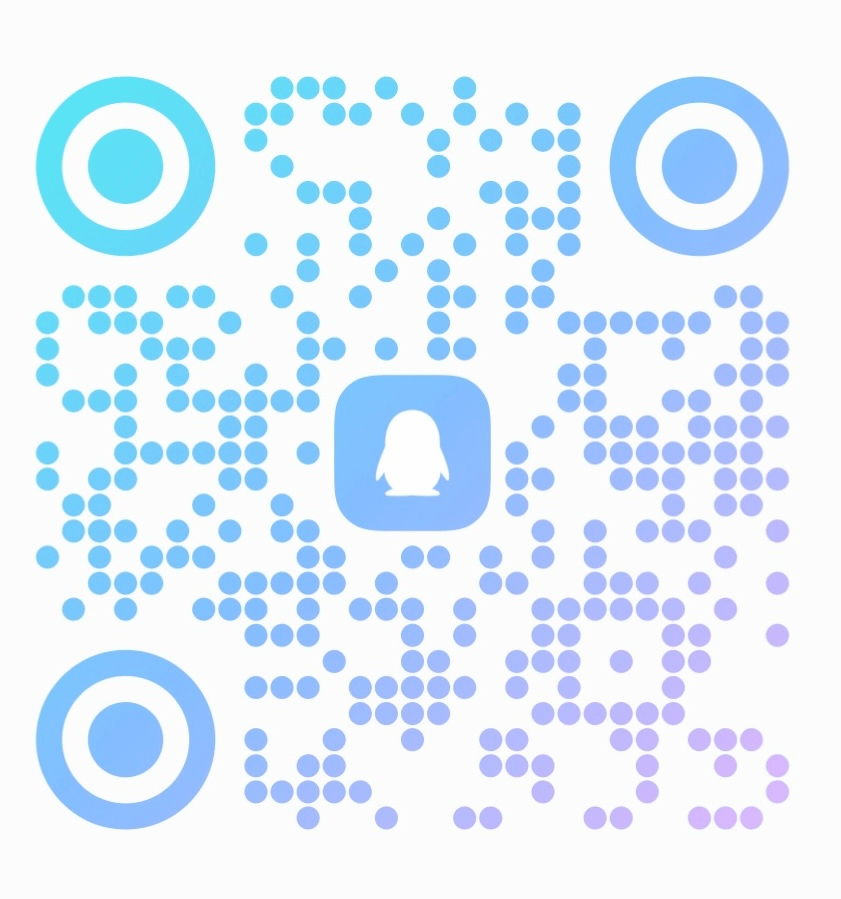
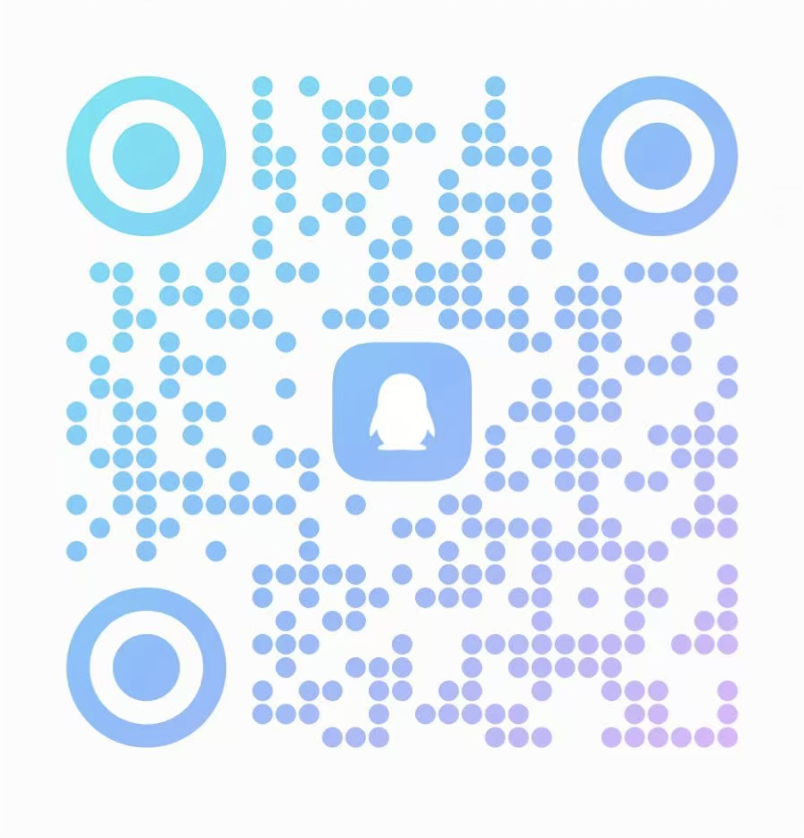
qq

diff --git a/src/components/Header.tsx b/src/components/Header.tsx
@@ -10,7 +10,7 @@ export function Header() {
   const pathname = usePathname();
   const [isSubmitModalOpen, setIsSubmitModalOpen] = useState(false);
   const [isQQModalOpen, setIsQQModalOpen] = useState(false);
-  // const [isBannerVisible, setIsBannerVisible] = useState(true);
+  const [isBannerVisible, setIsBannerVisible] = useState(true);
   const [isPending, startTransition] = useTransition();
 
   useEffect(() => {
@@ -37,7 +37,7 @@ export function Header() {
 
   return (
     <>
-      {/* {isBannerVisible && (
+      {isBannerVisible && (
           <div className="bg-[#12B7F5] text-white px-4 pr-10 sm:pr-12 py-2 text-sm font-medium text-center flex flex-wrap items-center justify-center gap-x-2 gap-y-1 relative z-30 transition-all">
             <span>🎉 已开放 QQ 闲聊群，欢迎大家来划水交流以及提出功能建议！</span>
             <button 
@@ -54,7 +54,7 @@ export function Header() {
               <X className="h-4 w-4 sm:h-5 sm:w-5" />
             </button>
           </div>
-        )} */}
+        )}
         <header className="sticky top-0 z-20 bg-white/90 backdrop-blur-md shadow-sm">
           <div className="mx-auto max-w-7xl px-4 sm:px-6 lg:px-8">
           <div className="flex h-16 items-center justify-between gap-2 sm:gap-4">
@@ -148,7 +148,7 @@ export function Header() {
                 <span className="hidden sm:inline">提交渠道</span>
                 <span className="inline sm:hidden">提交</span>
               </button>
-              {/* <button 
+              <button
                 onClick={() => setIsQQModalOpen(true)}
                 className="flex items-center justify-center rounded-lg hover:opacity-80 transition-opacity text-[#12B7F5]"
                 title="QQ Group"
@@ -156,7 +156,7 @@ export function Header() {
                 <svg viewBox="0 0 24 24" className="h-5 w-5 sm:h-6 sm:w-6" fill="currentColor">
                   <path d="M21.395 15.035a40 40 0 0 0-.803-2.264l-1.079-2.695c.001-.032.014-.562.014-.836C19.526 4.632 17.351 0 12 0S4.474 4.632 4.474 9.241c0 .274.013.804.014.836l-1.08 2.695a39 39 0 0 0-.802 2.264c-1.021 3.283-.69 4.643-.438 4.673.54.065 2.103-2.472 2.103-2.472 0 1.469.756 3.387 2.394 4.771-.612.188-1.363.479-1.845.835-.434.32-.379.646-.301.778.343.578 5.883.369 7.482.189 1.6.18 7.14.389 7.483-.189.078-.132.132-.458-.301-.778-.483-.356-1.233-.646-1.846-.836 1.637-1.384 2.393-3.302 2.393-4.771 0 0 1.563 2.537 2.103 2.472.251-.03.581-1.39-.438-4.673"/>
                 </svg>
-              </button> */}
+              </button>
               <a 
                 href="https://t.me/openprice1" 
                 target="_blank" 

diff --git a/src/app/guide/best-practices/ContactButtons.tsx b/src/app/guide/best-practices/ContactButtons.tsx
@@ -4,7 +4,7 @@ import React, { useState } from 'react';
 import { QQGroupModal } from '@/components/QQGroupModal';
 
 export default function ContactButtons() {
-  // const [isQQModalOpen, setIsQQModalOpen] = useState(false);
+  const [isQQModalOpen, setIsQQModalOpen] = useState(false);
 
   return (
     <>
@@ -20,7 +20,7 @@ export default function ContactButtons() {
           </svg>
           Telegram
         </a>
-        {/* <button 
+        <button
           onClick={() => setIsQQModalOpen(true)}
           className="flex-1 sm:flex-none flex items-center justify-center gap-1.5 rounded-lg bg-[#12B7F5] hover:bg-[#10a5dd] px-3.5 py-2 text-sm font-bold text-white transition-colors shadow-sm"
         >
@@ -28,13 +28,13 @@ export default function ContactButtons() {
             <path d="M21.395 15.035a40 40 0 0 0-.803-2.264l-1.079-2.695c.001-.032.014-.562.014-.836C19.526 4.632 17.351 0 12 0S4.474 4.632 4.474 9.241c0 .274.013.804.014.836l-1.08 2.695a39 39 0 0 0-.802 2.264c-1.021 3.283-.69 4.643-.438 4.673.54.065 2.103-2.472 2.103-2.472 0 1.469.756 3.387 2.394 4.771-.612.188-1.363.479-1.845.835-.434.32-.379.646-.301.778.343.578 5.883.369 7.482.189 1.6.18 7.14.389 7.483-.189.078-.132.132-.458-.301-.778-.483-.356-1.233-.646-1.846-.836 1.637-1.384 2.393-3.302 2.393-4.771 0 0 1.563 2.537 2.103 2.472.251-.03.581-1.39-.438-4.673"/>
           </svg>
           QQ群
-        </button> */}
+        </button>
       </div>
 
-      {/* <QQGroupModal 
+      <QQGroupModal
         isOpen={isQQModalOpen} 
         onClose={() => setIsQQModalOpen(false)} 
-      /> */}
+      />
     </>
   );
 }

diff --git a/src/app/about/page.tsx b/src/app/about/page.tsx
@@ -124,8 +124,8 @@ export default function AboutPage() {
               <Send className="w-5 h-5" />
               加入 Telegram 交流群
             </a>
-            {/* <a 
-              href="https://qm.qq.com/q/6syItALFu0" 
+            <a
+              href="https://qm.qq.com/q/2FdPYLVYjC"
               target="_blank" 
               rel="noopener noreferrer"
               className="flex items-center justify-center gap-2 w-full sm:w-auto px-6 py-3 bg-[#12B7F5] hover:bg-[#12B7F5]/90 text-white rounded-xl font-medium transition-colors"
@@ -134,7 +134,7 @@ export default function AboutPage() {
                 <path d="M21.395 15.035a40 40 0 0 0-.803-2.264l-1.079-2.695c.001-.032.014-.562.014-.836C19.526 4.632 17.351 0 12 0S4.474 4.632 4.474 9.241c0 .274.013.804.014.836l-1.08 2.695a39 39 0 0 0-.802 2.264c-1.021 3.283-.69 4.643-.438 4.673.54.065 2.103-2.472 2.103-2.472 0 1.469.756 3.387 2.394 4.771-.612.188-1.363.479-1.845.835-.434.32-.379.646-.301.778.343.578 5.883.369 7.482.189 1.6.18 7.14.389 7.483-.189.078-.132.132-.458-.301-.778-.483-.356-1.233-.646-1.846-.836 1.637-1.384 2.393-3.302 2.393-4.771 0 0 1.563 2.537 2.103 2.472.251-.03.581-1.39-.438-4.673"/>
               </svg>
               加入 QQ 交流群
-            </a> */}
+            </a>
           </div>
         </div>
         

diff --git a/src/components/QQGroupModal.tsx b/src/components/QQGroupModal.tsx
@@ -32,7 +32,7 @@ export function QQGroupModal({ isOpen, onClose }: QQGroupModalProps) {
             <p className="text-gray-600 mb-1">加入我们的 QQ 闲聊群，划水、分享最新的AI工具使用技巧</p>
             <div className="flex items-center justify-center gap-2 mt-1">
               <span className="text-gray-500 text-sm font-medium">QQ群号:</span>
-              <p className="text-2xl font-bold text-[#12B7F5] tracking-wider select-all">930645690</p>
+              <p className="text-2xl font-bold text-[#12B7F5] tracking-wider select-all">1037594975</p>
             </div>
           </div>
           <div className="w-48 h-48 bg-gray-50 rounded-xl border border-gray-200 flex flex-col items-center justify-center text-gray-400 mt-2 mx-auto overflow-hidden relative group">
@@ -49,7 +49,7 @@ export function QQGroupModal({ isOpen, onClose }: QQGroupModalProps) {
         
         <div className="pt-2">
           <a 
-            href="https://qm.qq.com/q/6syItALFu0" 
+            href="https://qm.qq.com/q/2FdPYLVYjC"
             target="_blank" 
             rel="noopener noreferrer"
             className="block w-full py-2.5 text-sm font-medium text-white bg-[#12B7F5] rounded-lg hover:bg-[#12B7F5]/90 transition-colors shadow-sm shadow-[#12B7F5]/20"
